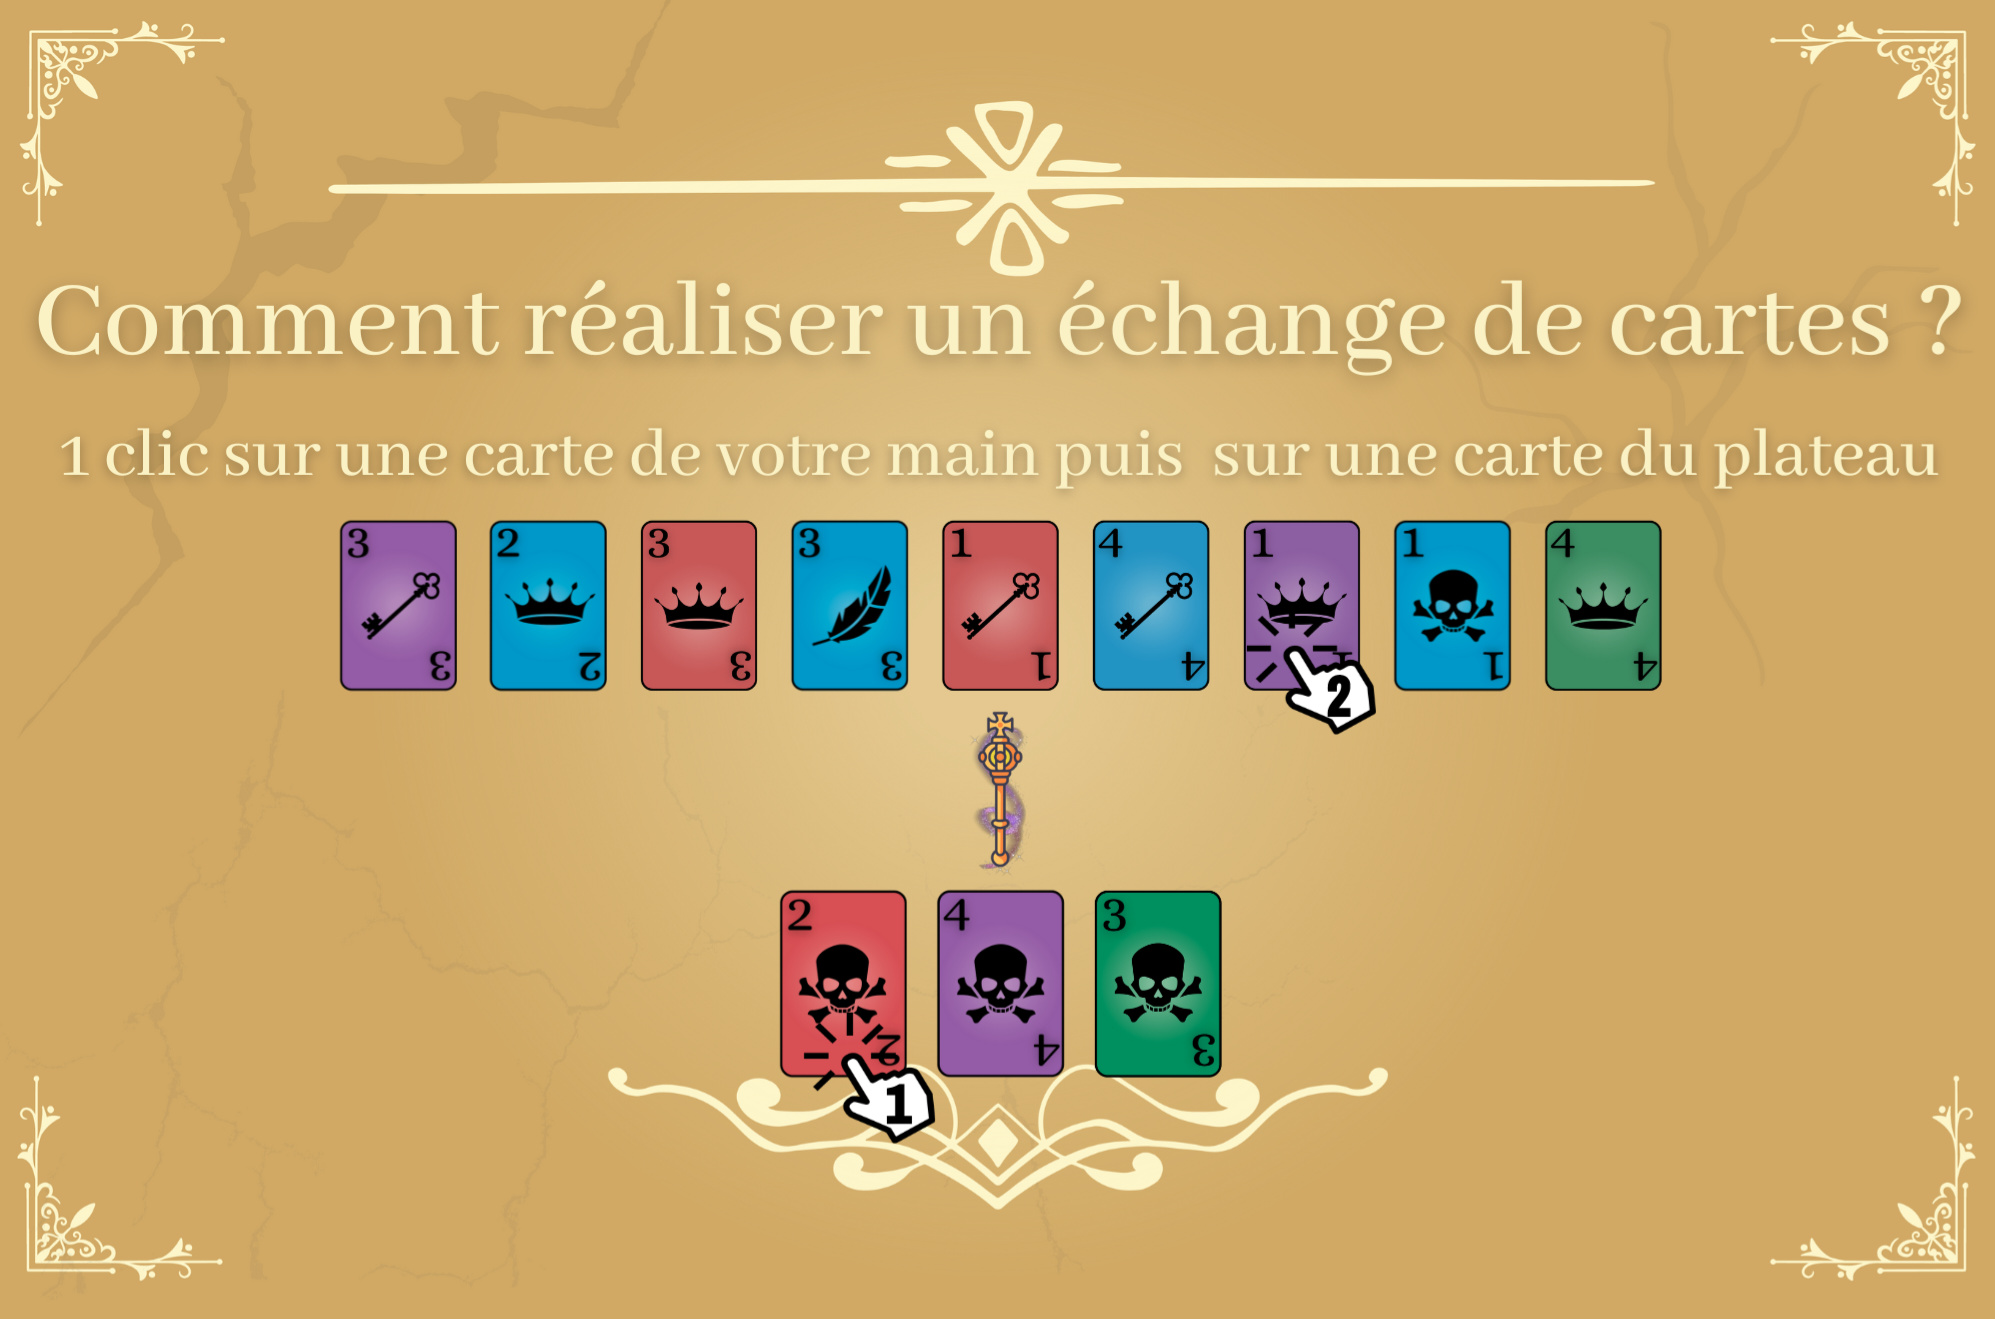
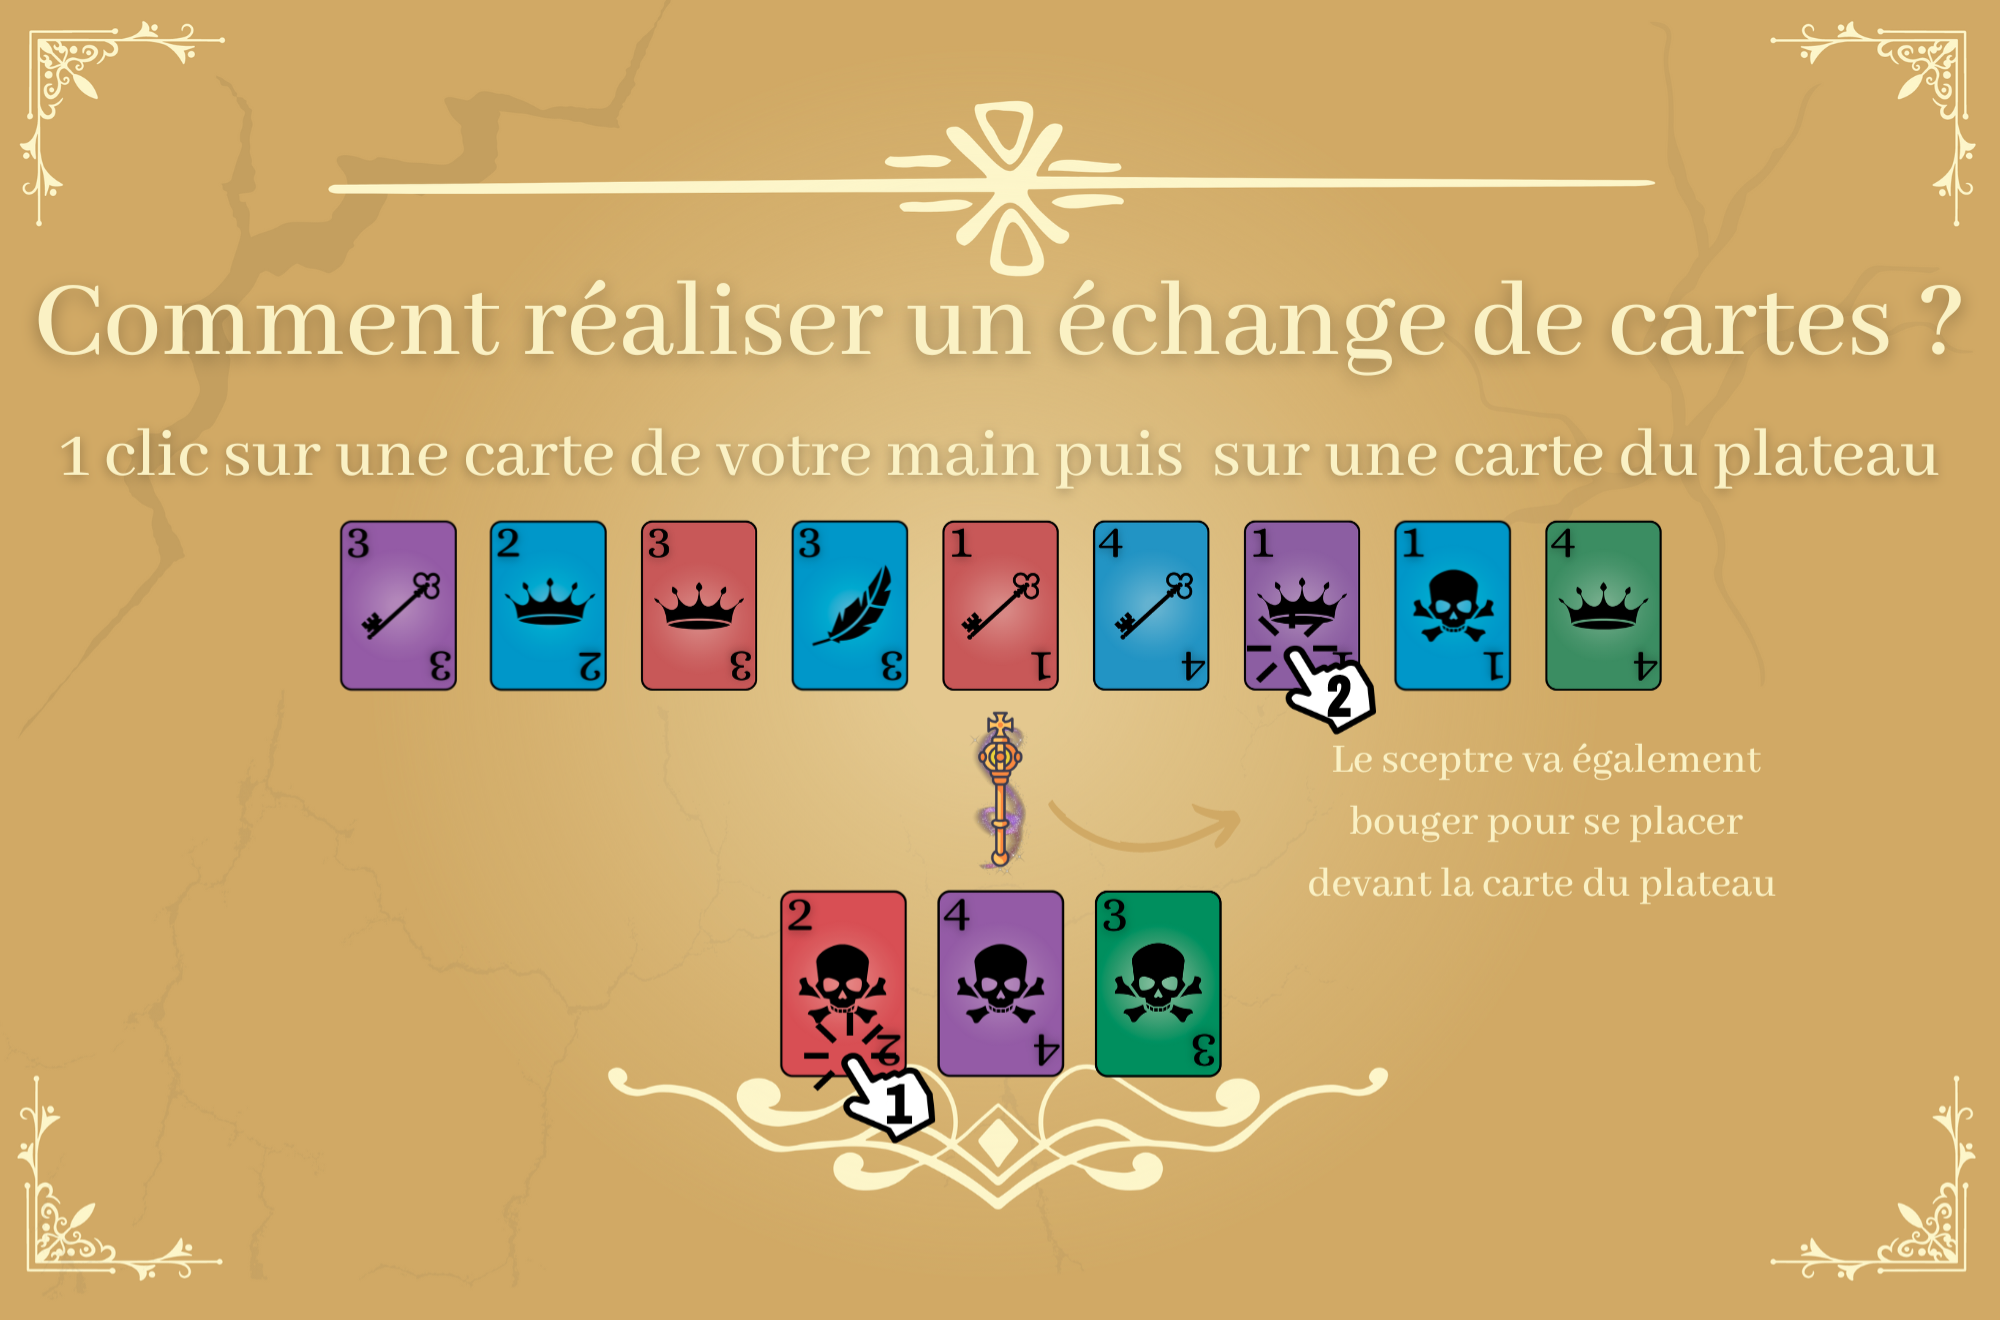
MAJ Tuto

diff --git a/src/Vue/MenuTuto.java b/src/Vue/MenuTuto.java
@@ -12,7 +12,7 @@ public class MenuTuto extends JComponent {
     int ratioXTitle = 480, ratioYTitle = 179;
     Image background;
     int pos = 0;
-    String [] liste_tuto = {"jeu.png","type.png","echange.png","Objectif.png","paradoxe.png","swap.png","codex.png"};
+    String [] liste_tuto = {"jeu.png","type.png","echangeavec.png","echange.png","Objectif.png","paradoxe.png","swap.png","codex.png","finTuto.png"};
 
     public MenuTuto(InterfaceGraphique ig){
         this.ig = ig;
